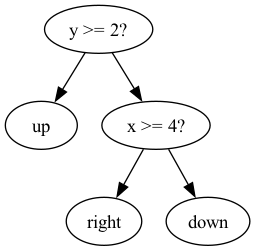
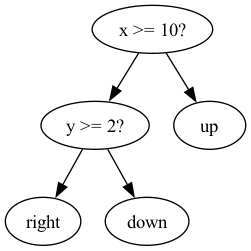
Search for smallest tree

diff --git a/molehill/constraints/flexibletree.py b/molehill/constraints/flexibletree.py
@@ -55,26 +55,43 @@ class DecisionTree(Constraint):
             )
 
 
-    def build_constraint(self, function, variables, variables_in_ranges):
+    def build_constraint(self, function, variables, variables_in_ranges, **args):
         self.variables = variables
         num_nodes = self.args.nodes
 
+
         forall_variables = []
+        forall_indices = []
         if self.robust:
             # build forall constraint
-            forall_variables = [
-                var
-                for var in variables
+            forall_indices = [
+                i
+                for i, var in enumerate(variables)
                 if any([x in str(var) for x in self.args.forall.split(" ")])
             ]
+            forall_variables = [variables[i] for i in forall_indices]
             if len(forall_variables) == 0:
                 raise ValueError("No variables found with the given pattern.")
         
         num_bits = max([x.size() for x in variables])
 
-
-        policy_vars = [x for x in variables if x not in forall_variables]
+        policy_indices = list(range(len(variables)))
+        if self.robust:
+            # remove the forall variables from the policy indices
+            for i in forall_indices:
+                policy_indices.remove(i)
+        policy_vars = [variables[i] for i in policy_indices]
         self.policy_vars = policy_vars
+
+        # Check that the available action labels of policy vars are consistent
+        if "family" in args:
+            labels = args["family"].hole_to_option_labels[policy_indices[0]]
+            for i in policy_indices:
+                print(args["family"].hole_to_option_labels[i], labels)
+                if args["family"].hole_to_option_labels[i] != labels:
+                    raise ValueError(
+                        f"The available action labels of the policy variables are inconsistent ({labels} vs {args['family'].hole_to_action_labels[i]})."
+                    )
 
         # variables have names of the form
         # A([picked0=1       & picked1=0     & picked2=1     & picked3=1     & picked4=0     & picked5=1     & picked6=1     & x=3   & y=2],0
@@ -175,6 +192,7 @@ class DecisionTree(Constraint):
                         )
                     )
             else:
+                print(f"Too many values ({num_values}) for explicit tree constraints, using forall quantification.")
                 # Symbolically forall-quantify over the values (too many to enumerate)
                 property_vars = [z3.BitVec(f"prop_{i}", num_bits) for i in range(num_properties)]
                 forall_statements.append(

diff --git a/misc/find_smallest_tree.py b/misc/find_smallest_tree.py
@@ -1,0 +1,36 @@
+import subprocess
+import sys
+
+def main():
+    if len(sys.argv) != 2:
+        print("Usage: python run_until_sat.py <arg1>")
+        sys.exit(1)
+
+    arg1 = sys.argv[1]
+    x = 1
+
+    while True:
+        print(f"Running with --nodes {x}")
+        process = subprocess.Popen(
+            ["python", "-m", "molehill", arg1, "--constraint", "existsforalltree", "--nodes", str(x)],
+            stdout=subprocess.PIPE,
+            stderr=subprocess.STDOUT,
+            text=True,
+            bufsize=1,
+        )
+
+        found_sat = False
+        for line in process.stdout:
+            print(line, end='')  # Already includes newline
+            if line.strip() == "sat":
+                found_sat = True
+
+        process.wait()
+
+        if found_sat:
+            break
+
+        x += 2
+
+if __name__ == "__main__":
+    main()

diff --git a/molehill/__init__.py b/molehill/__init__.py
@@ -144,7 +144,7 @@ def run(
     # Create the valid(...) function
     f = z3.PropagateFunction("valid", *[x.sort() for x in variables], z3.BoolSort())
 
-    s.add(constraint.build_constraint(f, variables, variables_in_ranges))
+    s.add(constraint.build_constraint(f, variables, variables_in_ranges, family=family))
 
     # add test z3 constraints
     # s.add(variables[0] + variables[1] == variables[2])

diff --git a/molehill/constraints/fixedtree.py b/molehill/constraints/fixedtree.py
@@ -50,7 +50,7 @@ class FixedDecisionTree(Constraint):
             default=None,
         )
 
-    def build_constraint(self, function, variables, variables_in_ranges):
+    def build_constraint(self, function, variables, variables_in_ranges, **args):
         tree_depth = self.args.tree_depth
         self.tree_depth = tree_depth
         self.variables = variables

diff --git a/molehill/constraints/constraint.py b/molehill/constraints/constraint.py
@@ -26,6 +26,7 @@ class Constraint:
         function: z3.Function,
         variables: list[z3.Var],
         variables_in_ranges: Callable[[list[z3.Var]], z3.ExprRef],
+        **args,
     ) -> z3.ExprRef:
         """Implement your constraint here. Arguments are passed by args. Call
         variables_in_ranges on variables to get a Z3 expression that represents

diff --git a/molehill/constraints/exists_forall.py b/molehill/constraints/exists_forall.py
@@ -32,6 +32,7 @@ class ExistsForallConstraint(Constraint):
         function: z3.Function,
         variables: list[z3.Var],
         variables_in_ranges: Callable[[list[z3.Var]], z3.ExprRef],
+        **args
     ) -> z3.ExprRef:
         forall_variables = [
             var
